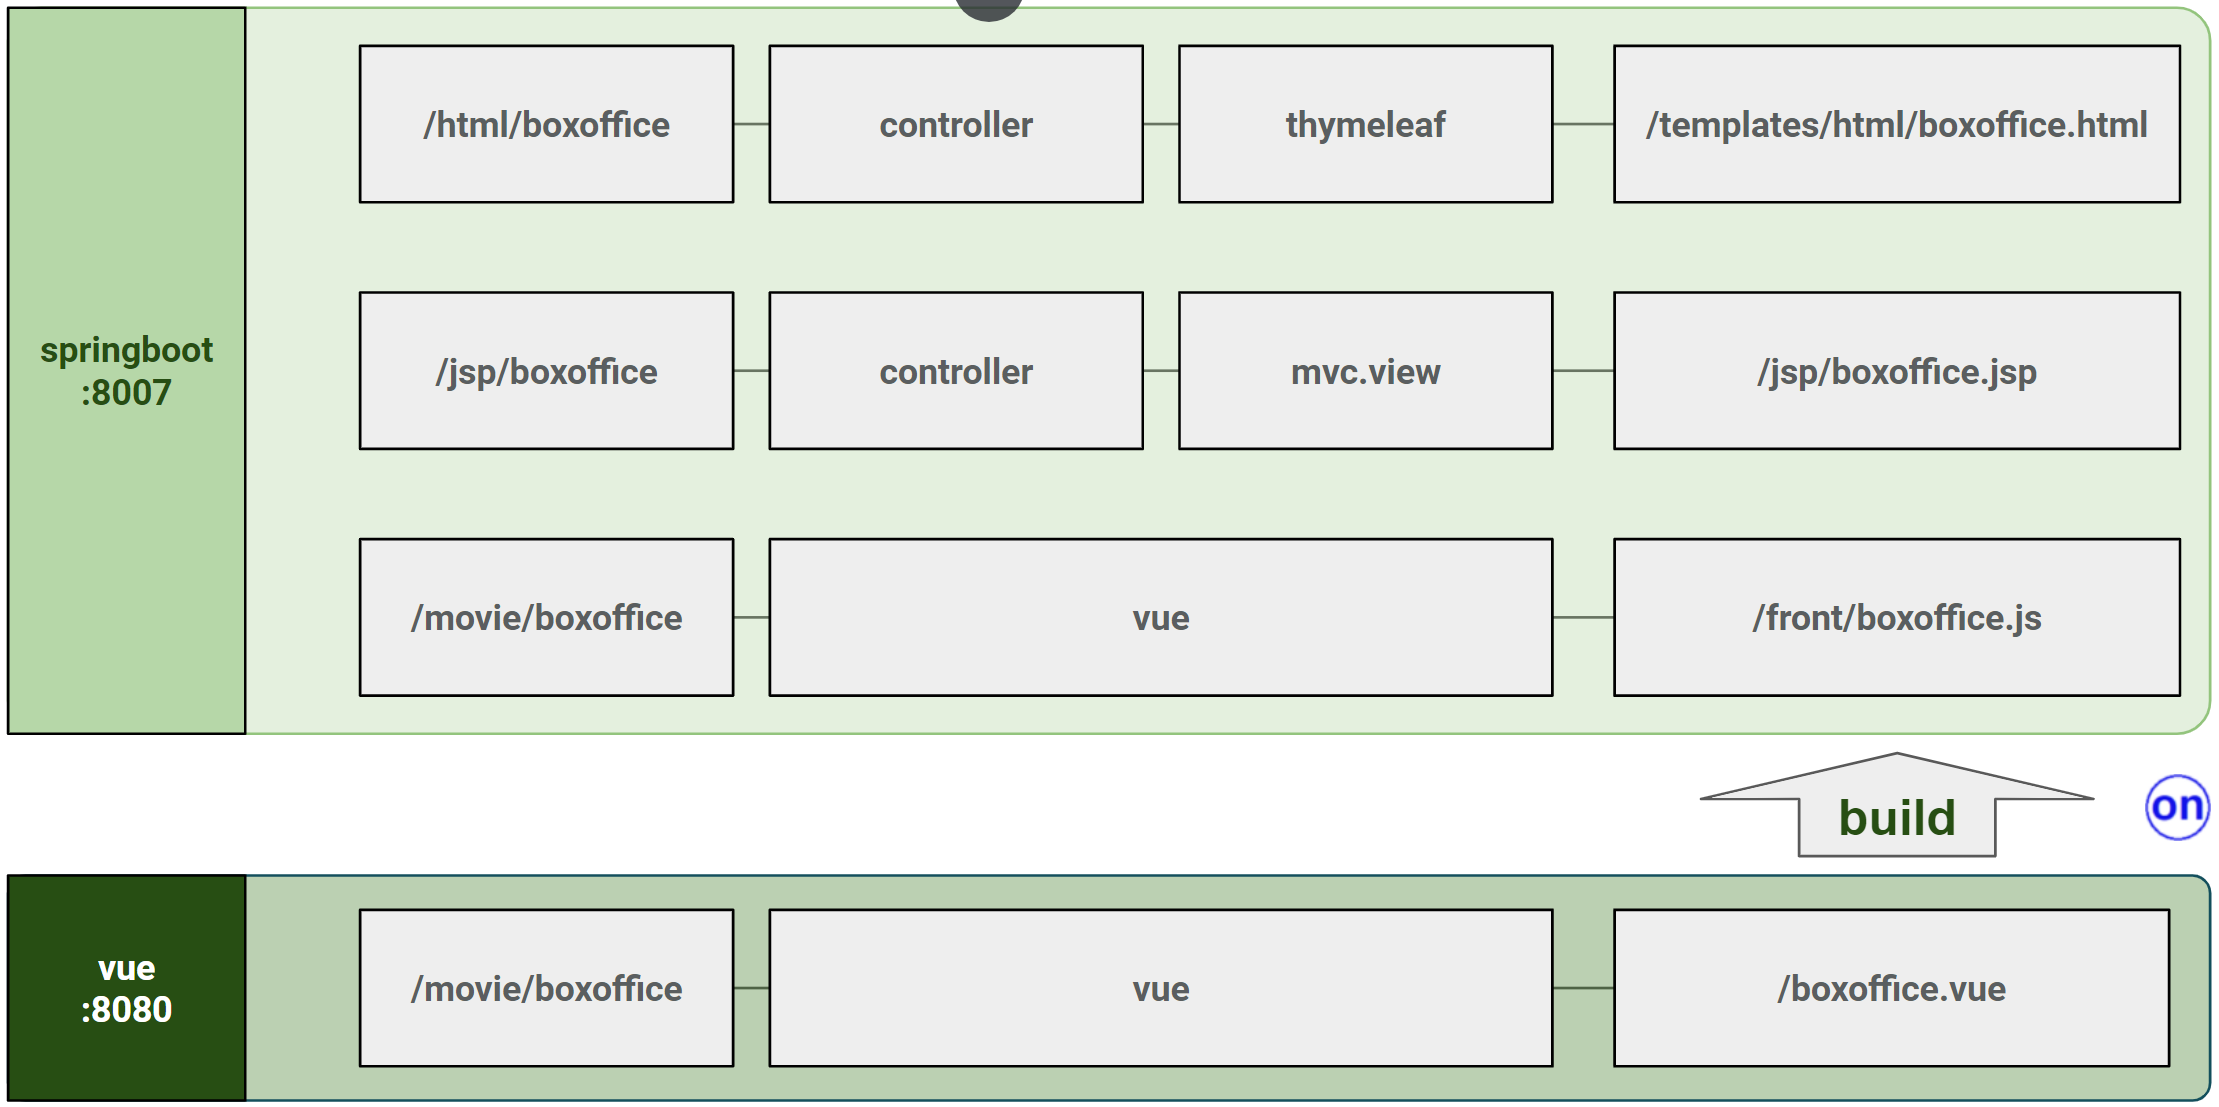
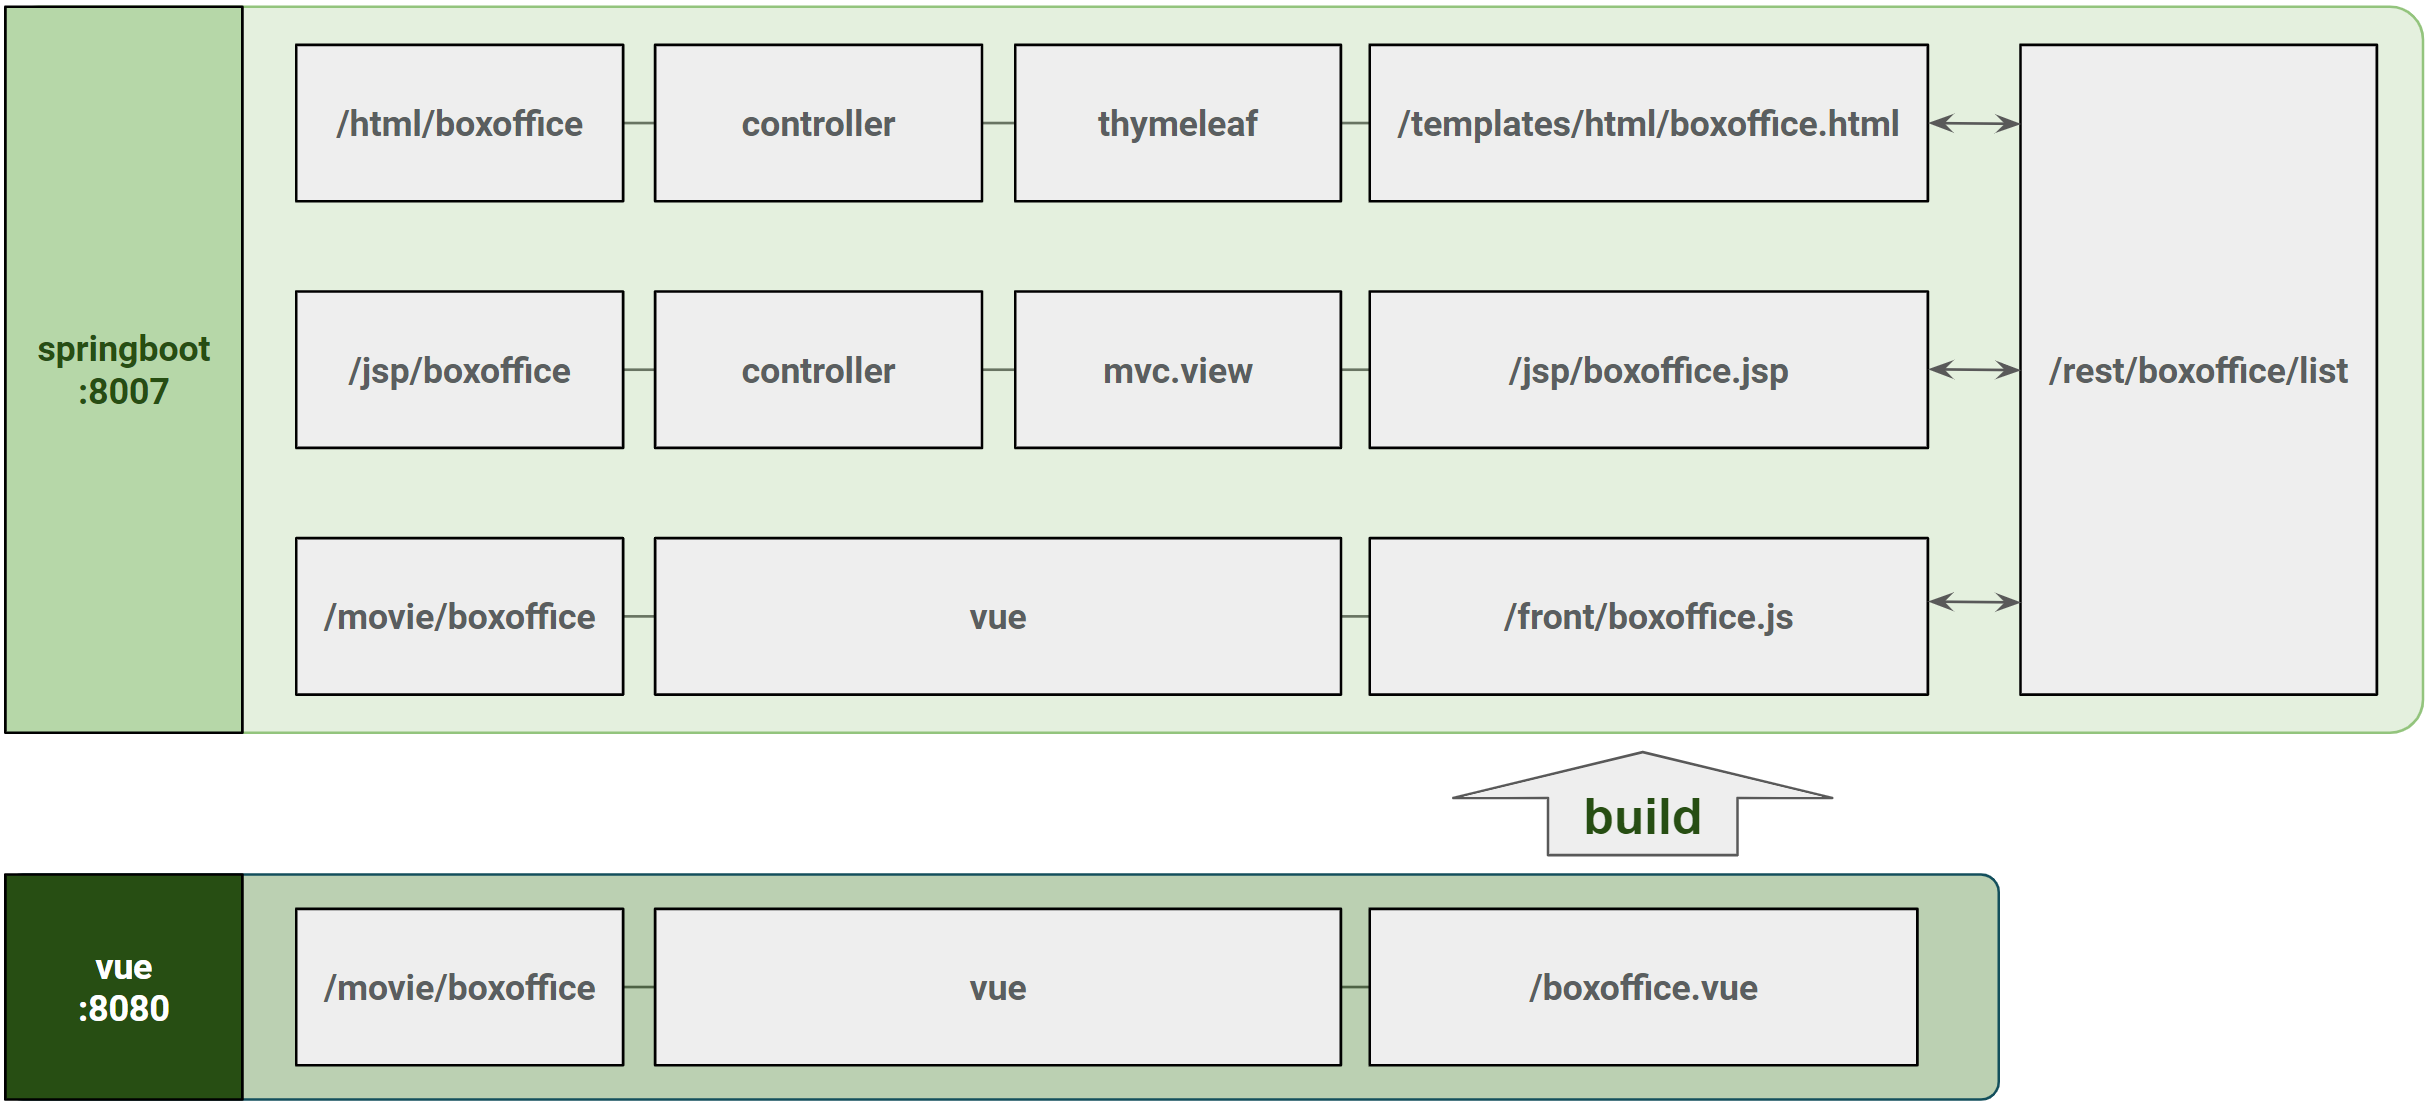
add springboot + vue

diff --git a/webdocs/_posts/vue/2022-11-29-bootvue-start-thymeleaf.md b/webdocs/_posts/vue/2022-11-29-bootvue-start-thymeleaf.md
@@ -1,5 +1,5 @@
 ---
-title: "영화 오픈 API를 이용하여 영화정보 사이트 만들기"
+title: "Thymeleaf - 영화 오픈 API를 이용하여 영화정보 사이트 만들기"
 categories: 
   - vue
 tags:
@@ -8,67 +8,27 @@ tags:
 ---
 
 영화진흥위원회의 오픈 API (주말 박스오피스) 를 이용하여 영화정보 사이트를 만들어보자.        
- [[영화진흥위원회 오픈 API 박스오피스 바로가기]](https://www.kobis.or.kr/kobisopenapi/homepg/apiservice/searchServiceInfo.do){: .btn.btn--info.btn--narrow target="_blank" }  (https://www.kobis.or.kr/)    
- 오픈 API 중 박스오피스 API를 이용하여 Html, Jsp, Vue 각 3가지 방식으로 박스오피스 기능을 구현해 본다.    
-
-
-## 구현할 기능
-1. Thymeleaf 박스오피스 (SpringBoot + Thymeleaf)    
-2. Jsp 박스오피스 (SpringBoot + jsp)    
-3. Vue 박스오피스 (Vue)    
-4. 박스오피스 API (SpringBoot RestController)       
-{: .notice--info}
+[[영화진흥위원회 오픈 API 박스오피스 바로가기]](https://www.kobis.or.kr/kobisopenapi/homepg/apiservice/searchServiceInfo.do){: .btn.btn--info.btn--narrow target="_blank" }  (https://www.kobis.or.kr/)    
 
 ## 박스오피스 UI
 ![]({{ site.baseurl }}/assets/images/post/vue/boot_start_01.png){: style="width:800px" .image_box }
 
+## 구현 기능
++ **오픈 API를 이용하여 Html, Jsp, Vue 방식으로 박스오피스 기능을 각각 구현해본다.**    
+
+1. REST API 로 영화진흥원 영화 오픈API 데이타 전달 (SpringBoot RestController)**    
+2. **Thymeleaf Html 박스오피스 (SpringBoot + Thymeleaf)**    
+3. Jsp 박스오피스 (SpringBoot + jsp)    
+4. Vue 박스오피스 (Vue)       
+{: .notice--info}
+
 ## 박스오피스 기능 구조도
-![]({{ site.baseurl }}/assets/images/post/vue/boot_start_02.png){: style="width:800px" .image_box }
+![]({{ site.baseurl }}/assets/images/post/vue/boot_start_02.png){: style="width:800px" .image_box }  
 
+## 1. 박스오피스 html 작성
+> + /html/boxoffice -> controller -> thymeleaf -> /templates/html/boxoffice.html 과정을 거친다.
+> + controller에서 전달하는 targetDt 값을 html에서 출력한다.
 
-## 1. 박스오피스 Rest API 작성
-> 영화진흥위원회의 오픈 API 데이타를 각 서비스로 전달해 주는 Rest API 구현    
-> Rest API를 별도로 구현하지 않고, 영화진흥위원회의 오픈 API로 직접 구현도 가능하다.
-
-### @MovieKobisAPIController.java
-```java
-@RestController
-public class MovieKobisAPIController {
-
-  @GetMapping("/rest/boxoffice/list")
-  public String boxoffice_list(@RequestParam Map<String, String> searchMap) throws Exception {      
-    String responseStr = null;
-    try {
-      //------------------------------------------------------
-      //  검색조건 설정
-      //------------------------------------------------------      
-      searchMap.put("key", "my_api_key");
-      searchMap.put("multiMovieYn", "N");
-      searchMap.put("weekGb", "0");
-
-      // 예제로 작성한 박스오피스의 이미지가 22년11월1일 기준으로 세팅되어 있다.
-      // 포스터 이미지가 없는 경우 no_image로 대체하여 보여줄 예정.
-      if(StringUtil.equals(searchMap.get("targetDt"), "")) {
-        searchMap.put("targetDt", "20221101");
-      } else {
-        searchMap.put("targetDt", searchMap.get("targetDt").replaceAll("-", ""));
-      }
-      
-      responseStr = getMovieHttp("/boxoffice/searchDailyBoxOfficeList.json?")
-                .getGetRequest("text/json", searchMap);
-      
-    } catch (Exception ex) {
-      ex.printStackTrace();
-    }  finally {
-
-    }        
- 
-    return responseStr;
-  }
-}
-```    
-
-## 2. 박스오피스 html 작성
 ### @/templates/html/boxoffice.html
 ```html
   <div class="header">    
@@ -77,20 +37,21 @@ public class MovieKobisAPIController {
         <a href="javascript:void(0)" >영화</a>
         <a href="#" class="active">박스오피스</a>
         <a href="movieList">현재상영작</a>
+        <!-- controller에서 전달받은 targetDt(기준일)를 출력한다. -->
         <p style="text-align:right"><input type="date" name="targetDt" th:value="${targetDt}" onchange="getMovieList()"></p>
       </div> 
     </form>       
   </div>   
 
-  <!-- MAIN (Center website) -->
+  <!-- MAIN : START -->
   <div class="content-container"> 
     <p><span class="h2">박스오피스 &nbsp;&nbsp;</span> (<span th:text="${targetDt}"></span>일 기준)</p>
     <div class="row">
-      <div id="movieList" name="movieList">                       
-      </div>
+      <!-- Rest API로 전달받은 박스오피스 데이타를 출력한다. -->
+      <div id="movieList" name="movieList"></div>
     </div>  
   </div>
-  <!-- END MAIN -->
+  <!-- MAIN : END -->
 
 <script src="/assets/js/jquery.js" type="text/javascript"></script>
 <script src="/assets/js/jquery.form.min.js" type="text/javascript"></script>
@@ -135,7 +96,10 @@ public class MovieKobisAPIController {
 </script>
 ```
 
-## 3. Controller 작성
+## 2. Controller 작성
+> + /html/boxoffice 호출 시 thymeleaf를 거쳐 html view 
+> + /jsp/boxoffice 호출 시 jsp view 
+
 ### @TestViewController.java
 ```java
 @Controller
@@ -154,14 +118,12 @@ public class ViewTestController {
 	}
 }
 ```
-## 4. 스프링부트 서버 확인
-> 스프링부트 접속 (http://localhost:8007/html/boxoffice)    
-> /html/boxoffice -> controller -> thymeleaf -> /templates/html/boxoffice.html    
+## 3. 스프링부트 서버 확인
+> + 스프링부트 접속 (http://localhost:8007/html/boxoffice)    
+> + /html/boxoffice -> controller -> thymeleaf -> /templates/html/boxoffice.html    
 
 ![]({{ site.baseurl }}/assets/images/post/vue/boot_start_03.png){: style="width:800px" .image_box }
 
 
-
-
----   
+  
    

diff --git a/webdocs/_posts/vue/2022-11-30-bootvue-start-jsp.md b/webdocs/_posts/vue/2022-11-30-bootvue-start-jsp.md
@@ -1,0 +1,129 @@
+---
+title: "Jsp - 영화 오픈 API를 이용하여 영화정보 사이트 만들기"
+categories: 
+  - vue
+tags:
+  - vue
+  - springboot
+---
+
+영화진흥위원회의 오픈 API (주말 박스오피스) 를 이용하여 영화정보 사이트를 만들어보자.        
+[[영화진흥위원회 오픈 API 박스오피스 바로가기]](https://www.kobis.or.kr/kobisopenapi/homepg/apiservice/searchServiceInfo.do){: .btn.btn--info.btn--narrow target="_blank" }  (https://www.kobis.or.kr/)    
+
+## 구현 기능
++ **오픈 API를 이용하여 Html, Jsp, Vue 방식으로 박스오피스 기능을 각각 구현해본다.**    
+
+1. REST API 로 영화진흥원 영화 오픈API 데이타 전달 (SpringBoot RestController)**    
+2. Thymeleaf Html 박스오피스 (SpringBoot + Thymeleaf)    
+3. **Jsp 박스오피스 (SpringBoot + jsp)**    
+4. Vue 박스오피스 (Vue)       
+{: .notice--info}
+
+## 박스오피스 기능 구조도
+![]({{ site.baseurl }}/assets/images/post/vue/boot_start_02.png){: style="width:800px" .image_box }  
+ 
+
+## 1. 박스오피스 jsp 작성
+> + /jsp/boxoffice -> controller -> /jsp/boxoffice.jsp 과정을 거친다.
+> + controller에서 전달하는 targetDt 값을 jsp에서 출력한다.    
+
+### @/jsp/boxoffice.jsp
+```html
+  <div class="header">    
+    <form name="frm" method="post">
+      <div id="navbar" class="navbar">
+        <a href="javascript:void(0)" >영화</a>
+        <a href="#" class="active">박스오피스</a>
+        <a href="movieList">현재상영작</a>
+        <!-- controller에서 전달받은 targetDt(기준일)를 출력한다. -->
+        <p style="text-align:right"><input type="date" name="targetDt" value="${targetDt}" onchange="getMovieList()"></p>
+      </div> 
+    </form>       
+  </div>   
+
+  <!-- MAIN : START -->
+  <div class="content-container"> 
+    <p><span class="h2">박스오피스 &nbsp;&nbsp;</span> (<span th:text="${targetDt}"></span>일 기준)</p>
+    <div class="row">
+      <!-- Rest API로 전달받은 박스오피스 데이타를 출력한다. -->
+      <div id="movieList" name="movieList"></div>
+    </div>  
+  </div>
+  <!-- MAIN : END -->
+
+<script src="/assets/js/jquery.js" type="text/javascript"></script>
+<script src="/assets/js/jquery.form.min.js" type="text/javascript"></script>
+<script type="text/javascript">
+  jQuery(document).ready(function() {
+    getMovieList();  
+  }); 
+  
+  function getMovieList() {
+    $.ajax({
+        url: "/rest/boxoffice/list?targetDt="+frm.targetDt.value,            
+        success: function(result){
+            
+          if(result != null && result.length > 20) {
+            var jsonObj = JSON.parse(result);
+            
+            for(var i=0; i<jsonObj.boxOfficeResult.dailyBoxOfficeList.length; i++) {
+              appendImage(
+                jsonObj.boxOfficeResult.dailyBoxOfficeList[i].rank, 
+                jsonObj.boxOfficeResult.dailyBoxOfficeList[i].movieNm, 
+                jsonObj.boxOfficeResult.dailyBoxOfficeList[i].movieCd, 
+                jsonObj.boxOfficeResult.dailyBoxOfficeList[i].openDt
+              );
+              }
+          }
+        },
+        timeout: 2000 // sets timeout to 2 seconds
+    });  
+  } 
+  
+  function appendImage(rank, movieNm, movieCd, openDt) {
+    var appendStr = "";     
+    appendStr += "<div class=\"column nature\">";
+    appendStr +=     "<div class=\"content\">";
+    appendStr +=       "<img src=\"/assets/images/movie/"+movieCd+".jpg\" style=\"width:300px;  height:400px; \" onError=\"this.src='/assets/images/main/no_image_poster.jpg'\">";
+    appendStr +=       "<div><span class=\"h4\">["+rank+" 위]"+movieNm+"</span><br/>";
+    appendStr +=       "개봉일:"+openDt+"</div>";
+    appendStr +=     "</div>";
+    appendStr +=      "</div>"; 
+    $("#movieList").html( $("#movieList").html() + appendStr);     
+  }    
+</script>
+```
+
+## 2. Controller 작성 (html 과정에서 작성)
+> + /html/boxoffice 호출 시 thymeleaf를 거쳐 html view 
+> + /jsp/boxoffice 호출 시 jsp view 
+
+### @TestViewController.java
+```java
+@Controller
+public class ViewTestController {
+
+	@GetMapping("/html/boxoffice")  				
+	public String movieBoxoffice(Model model) { 
+		model.addAttribute("targetDt", "2022-11-01");
+		return "html/boxoffice"; 
+	}
+
+	@GetMapping("/jsp/boxoffice")  				
+	public String movieBoxofficeJsp(Model model) { 
+		model.addAttribute("targetDt", "2022-11-01");
+		return "boxoffice"; 
+	}
+}
+```
+## 3. 스프링부트 서버 확인
+> + 스프링부트 접속 (http://localhost:8007/jsp/boxoffice)    
+> + /jsp/boxoffice -> controller -> /jsp/boxoffice.jsp    
+
+![]({{ site.baseurl }}/assets/images/post/vue/boot_start_04.png){: style="width:800px" .image_box }
+
+
+
+
+---   
+   

diff --git a/webdocs/_posts/vue/2022-11-28-bootvue-start-restapi.md b/webdocs/_posts/vue/2022-11-28-bootvue-start-restapi.md
@@ -1,0 +1,84 @@
+---
+title: "REST API - 영화진흥원 영화 오픈API를 이용하여 영화정보 사이트 만들기"
+categories: 
+  - vue
+tags:
+  - vue
+  - springboot
+---
+
+영화진흥위원회의 오픈 API (주말 박스오피스) 를 이용하여 영화정보 사이트를 만들어보자.        
+[[영화진흥위원회 오픈 API 박스오피스 바로가기]](https://www.kobis.or.kr/kobisopenapi/homepg/apiservice/searchServiceInfo.do){: .btn.btn--info.btn--narrow target="_blank" }  (https://www.kobis.or.kr/)    
+
+## 박스오피스 UI
+![]({{ site.baseurl }}/assets/images/post/vue/boot_start_01.png){: style="width:800px" .image_box }
+
+## 구현 기능
++ **오픈 API를 이용하여 Html, Jsp, Vue 방식으로 박스오피스 기능을 각각 구현해본다.**    
+
+1. **REST API 로 영화진흥원 영화 오픈API 데이타 전달 (SpringBoot RestController)**    
+2. Thymeleaf Html 박스오피스 (SpringBoot + Thymeleaf)    
+3. Jsp 박스오피스 (SpringBoot + jsp)    
+4. Vue 박스오피스 (Vue)       
+{: .notice--info}
+
+## 박스오피스 기능 구조도
+![]({{ site.baseurl }}/assets/images/post/vue/boot_start_02.png){: style="width:800px" .image_box }
+
+## 1. 영화진흥원 박스오피스 오픈 API 
+
+![]({{ site.baseurl }}/assets/images/post/vue/boot_start_00.png){: style="width:600px" .image_box }
+
+## 2. Rest API용 Controller 작성
+> + 영화진흥위원회의 오픈 API 데이타를 각 서비스로 전달해 주는 Rest API 구현    
+> + Rest API를 별도로 구현하지 않고, 영화진흥위원회의 오픈 API로 직접 구현도 가능하다.
+
+### @MovieKobisAPIController.java
+```java
+@RestController
+public class MovieKobisAPIController {
+
+  @GetMapping("/rest/boxoffice/list")
+  public String boxoffice_list(@RequestParam Map<String, String> searchMap) throws Exception {      
+    String responseStr = null;
+    try {
+      //------------------------------------------------------
+      //  검색조건 설정
+      //------------------------------------------------------      
+      searchMap.put("key", "my_api_key");
+      searchMap.put("multiMovieYn", "N");
+      searchMap.put("weekGb", "0");
+
+      // 예제로 작성한 박스오피스의 이미지가 22년11월1일 기준으로 세팅되어 있다.
+      // 포스터 이미지가 없는 경우 View (Html, Jsp.. )영역에서 no_image로 대체하여 보여준다.
+      if(StringUtil.equals(searchMap.get("targetDt"), "")) {
+        searchMap.put("targetDt", "20221101");
+      } else {
+        searchMap.put("targetDt", searchMap.get("targetDt").replaceAll("-", ""));
+      }
+      
+      responseStr = getMovieHttp("/boxoffice/searchDailyBoxOfficeList.json?")
+                .getGetRequest("text/json", searchMap);
+      
+    } catch (Exception ex) {
+      ex.printStackTrace();
+    }  finally {
+
+    }        
+ 
+    return responseStr;
+  }
+}
+```    
+
+## 3. 스프링부트 서버 확인
+> + 스프링부트 접속 (http://localhost:8007/rest/boxoffice/list)    
+> + /rest/boxoffice/list -> controller     
+
+![]({{ site.baseurl }}/assets/images/post/vue/boot_start_000.png){: style="width:800px" .image_box }
+
+
+
+
+---   
+   

diff --git a/webdocs/_posts/vue/2022-11-18-vue3-router.md b/webdocs/_posts/vue/2022-11-18-vue3-router.md
@@ -36,7 +36,7 @@ Vue Router를 이용하여 웹페이지를 만들어 보자.
 
 ![]({{ site.baseurl }}/assets/images/post/vue/vue3_create4_router.png){: style="width:700px"}
 
-+ vue add router 설치 후 추가 된 구조    
++ vue add router 후 구조    
 
 ```
 vuex3                          # Vue 프로젝트 ROOT
@@ -55,6 +55,8 @@ vuex3                          # Vue 프로젝트 ROOT
 ```
 
 ## 2) App.vue 파일 수정
++ /posts -> PostsView.vue 경로 및 파일 추가    
+
 ```html
 <template>
   <div id="app">
@@ -135,7 +137,7 @@ const router = createRouter({
 export default router
 ```
 
-## 4) posts 페이지에 접속하여 확인하기
+## 5) posts에 접속하여 확인하기
 
 ![]({{ site.baseurl }}/assets/images/post/vue/vue3_router_2.png){: style="width:700px"}
 
